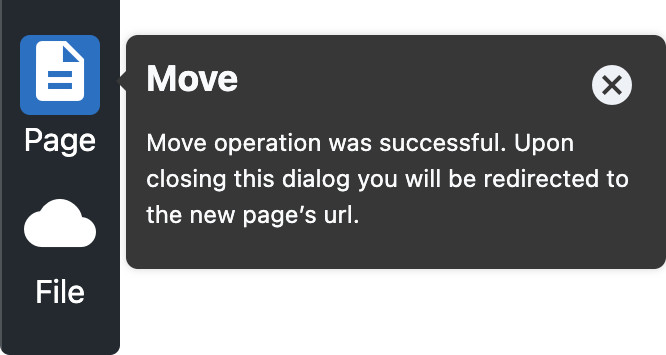
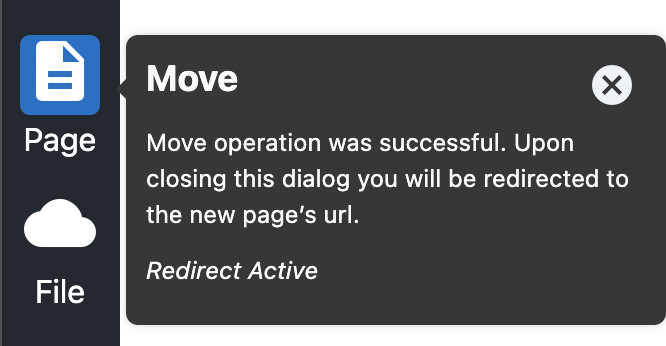
Update docs based on dev changes
- Update screenshots.
- Add note about not allowing spaces in URL.
- Update instructions to reflect change in checkbox label — 'Add
  Redirect'.

diff --git a/packages/bodiless-documentation/doc/ContentEditorUserGuide/PageMenu/Move/README.md b/packages/bodiless-documentation/doc/ContentEditorUserGuide/PageMenu/Move/README.md
@@ -19,8 +19,8 @@ To move an existing page:
     ![Move Page form](./assets/PageMovePage.jpg ':size=50%')
 01. In the _New URL_ field, enter the URL you wish to move the page to.
     * **Note:** There are [restrictions](#restrictions) on the URL provided.
-01. By default, the _Redirect_ checkbox is checked: upon page move, a 301 redirect will be created,
-    redirecting your users from the _Current URL_ to the _New URL_.
+01. By default, the _Add Redirect_ checkbox is checked: upon page move, a 301 redirect will be
+    created, redirecting your users from the _Current URL_ to the _New URL_.
     * Uncheck this box if you don't want to create a redirect.
     * If you want to create a redirect with an HTTP response status code other than `301`, you can
       use the [Aliases](../../ToolsMenu/Aliases/) tool.

diff --git a/packages/bodiless-documentation/doc/ContentEditorUserGuide/PageMenu/Delete/README.md b/packages/bodiless-documentation/doc/ContentEditorUserGuide/PageMenu/Delete/README.md
@@ -17,6 +17,7 @@ To delete a page:
     * This will create a redirect with an HTTP response status code of `301`; if you want to create
       a redirect with a different status code, you can use the [Aliases](../../ToolsMenu/Aliases/)
       tool.
+    * **Note:** Spaces are not allowed in the redirect path/URL.
 01. Click the checkmark to confirm. (Or click the "X" icon to cancel.)
     * A spinner will appear while your page is being deleted.
     * If successful, you will see a confirmation message, and, upon closing it, you'll be redirected
